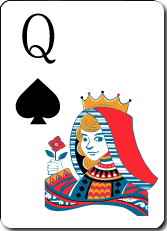
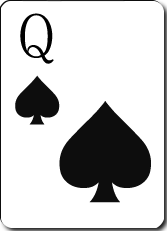
수정
1. 카드장 j,q,k 이미지 교체.
2. 리바인 관련 수정.
3. 로그인페이지 새로 설정.
4. 재접속 관련 다시 로직 수정.

diff --git a/IGameHoldem/public/game/IModeGame.js b/IGameHoldem/public/game/IModeGame.js
@@ -147,7 +147,6 @@ export default class IModeGame {
         
         this.bEnableChat = false;
 
-        this.listAbnormalID = [];
         if(isMobile)
         {
             this.listLabels[0].SetLocation(684,1010);
@@ -195,7 +194,6 @@ export default class IModeGame {
         this.listTableCardTemp = [];
         this.iNumCards = 0;
         this.listWinCards = [false, false, false, false, false];
-        this.listAbnormalID = [];
 
         for (let i in this.listPlayers) {
             this.listPlayers[i].Initialize();
@@ -414,7 +412,9 @@ export default class IModeGame {
 
     RemoveUser(objectPlayer) {
         console.log(`RemoveUser : Length(${this.listPlayers.length})`);
-        this.listAbnormalID.push(objectPlayer.strID);
+
+        this.socket.emit('CM_LeaveGame', objectPlayer.strID);
+        
         for (let i in this.listPlayers) {
             console.log(
                 `RemoveUser : ${objectPlayer.strID}, ${this.listPlayers[i].strID}`
@@ -994,7 +994,7 @@ export default class IModeGame {
                 }
                 this.kMainUser.iAutoFoldCounter++;
                 if (this.kMainUser.iAutoFoldCounter >= 3) {
-                    this.listAbnormalID.push(this.kMainUser.strID);
+                    //this.RemoveUser(this.kMainUser);
                     window.close();
                 }
             }
@@ -1013,7 +1013,7 @@ export default class IModeGame {
             ((this.kMainUser && this.kMainUser.bFold == true && this.kMainUser.bReserveExit == true) || 
             (this.bPlaying == false && exitText == '나가기 예약'))) {
             this.bReserveButton = true;
-            // this.socket.emit('CM_LeaveGame');
+            //this.RemoveUser(this.kMainUser);
             window.close();
         }
     }
@@ -1462,8 +1462,7 @@ export default class IModeGame {
                 //if ( listObject[i].strID == this.socket.strID && listObject[i].iCoin == 0 )
                 if (listObject[i].strID == this.socket.strID) {
                     if (listObject[i].bQuit == true) {
-                        //this.socket.emit('CM_LeaveGame');
-                        this.RemoveUser(listObject[i]);
+                        //this.RemoveUser(listObject[i]);
                         if (window.confirm("리바인 금액이 부족합니다.")) {
                             window.close();
                         }
@@ -1474,12 +1473,6 @@ export default class IModeGame {
                     else this.UpdatePoint(listObject[i].iCash);
                 }
             }
-        }
-
-        if(this.listAbnormalID.length > 0)
-        {
-            for(let i in this.listAbnormalID)
-                this.socket.emit('CM_LeaveGame',this.listAbnormalID[i]);
         }
     }
 

diff --git a/IGameHoldem/game/IGameInstance.js b/IGameHoldem/game/IGameInstance.js
@@ -249,7 +249,14 @@ class IGameInstance
                 let player = this.FindUser(strID);
                 if(player != null){
                     let lUnique = player.lUnique;
-                    if ( true == this.GameManager.Leave(player) )
+                    for(let i in this.listAbnormalSocket)
+                    {
+                        if(this.listAbnormalSocket[i].strID == strID)
+                        {
+                            this.listAbnormalSocket.splice(i,1);
+                        }
+                    }
+                    if ( this.GameManager.Leave(player) )
                     {
                         this.RemoveUser(player);
                         await this.RequestAxios(`${global.strLobbyAddress}/removeroom`, {lUnique:lUnique});
@@ -361,6 +368,19 @@ class IGameInstance
 
                 console.log(`CM_ManualRebuyin :`);
                 socket.bMenualRebuyin = true;
+            });
+
+            socket.on('CM_ChangeOptionCode', (objectData) => {
+
+                console.log(`CM_ChangeOptionCode : `);
+                console.log(objectData);
+
+                const player = this.FindUser(objectData.strID);
+                if(player != null)
+                {
+                    player.strOptionCode = objectData.strOptionCode;
+                    //player.emit('SM_ChangeOptionCode',{strID:objectData.strID, strOptionCode:objectData.strOptionCode});
+                }
             });
 
             socket.on('CM_DefaultAnteSB', (iCoin) => {

diff --git a/IGameHoldem/game/IGame.js b/IGameHoldem/game/IGame.js
@@ -1285,15 +1285,17 @@ class IGame
                 console.log(`RebuyIn : ${iEnableRebuyIn}, Odds ${iRebuyInOdds}, Amount : ${cRebuyInAmount}`);
 
                 // 리바인 사용하거나 수동 리바인 눌렀을떄.
+
                 if (player.iCash >= (cRebuyInAmount - parseInt(player.iCoin))) {
-                    // player.iCoin = 100000;
-                    // player.iCash -= 100000;
-                    player.iCash -= (cRebuyInAmount - parseInt(player.iCoin));
-                    player.iCoin = cRebuyInAmount;
+                    if (player.iCoin < cRebuyInAmount) {
+                        // player.iCoin = 100000;
+                        // player.iCash -= 100000;
+                        player.iCash -= (cRebuyInAmount - parseInt(player.iCoin));
+                        player.iCoin = cRebuyInAmount;
+                    }
                 }
                 else {
                     console.log(`Auto Quit : Not Enough Cash On RebuyIn`);
-                    //player.emit('SM_Quit', {code:'NotEnoughCash'});
                     bQuit = true;
                 }
             }

diff --git a/IGameHoldem/public/game/IGameMain.js b/IGameHoldem/public/game/IGameMain.js
@@ -336,6 +336,16 @@ export default class IGameMain{
             chatElement.scrollTop(chatElement.prop("scrollHeight"));
         });
 
+        this.socket.on('SM_ChangeOptionCode', (objectData) => {
+
+            console.log(`SM_ChangeOptionCode`);
+            console.log(objectData);
+
+            this.Game.SetBg(objectData.strOptionCode);
+
+            soundClick.play();
+        });
+
         this.socket.on('SM_ChatClose', () => {
 
             console.log(`SM_ChatClose`);
@@ -440,6 +450,8 @@ export default class IGameMain{
             case 'Standby':
                 this.Game.Initialize();
                 break;
+            case 'Rebuyin':
+
             }
         });
 
